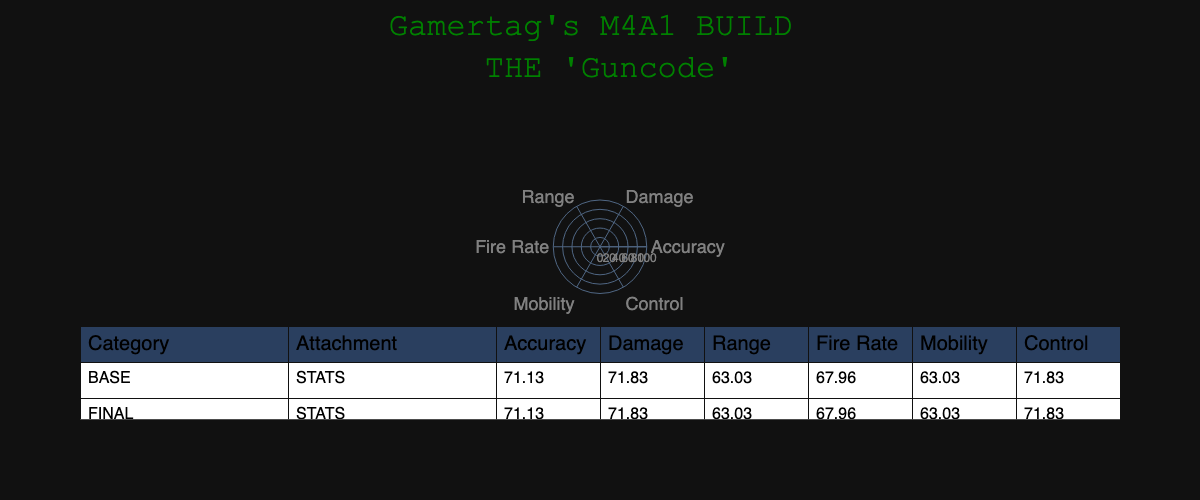
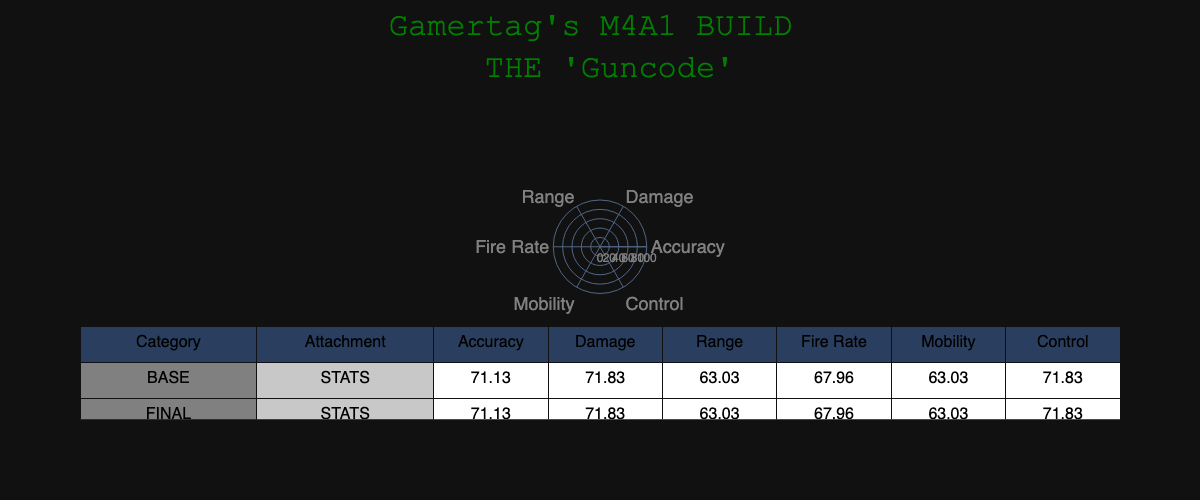
updated table layout

diff --git a/graph2.py b/graph2.py
@@ -64,13 +64,13 @@ def make_graph(original = m4base, updated = upgrade, gun = "M4A1", gamertag = "G
 
     fig.add_trace(
         go.Table(        
-            columnwidth = [0.2, 0.2, 0.1, 0.1, 0.1, 0.1, 0.1, 0.1],
+            columnwidth = [0.17, 0.17, 0.11, 0.11, 0.11, 0.11, 0.11, 0.11],
             header = dict(
                 values = ["Category","Attachment",'Accuracy','Damage','Range','Fire Rate','Mobility','Control'],
-                font = dict(size = 20,
-                color = "black"),
+                font = dict(size = 16,
+                            color = "black"),
                 height = 36,
-                align="left"
+                align="center",
             ),
             cells = dict(
                 values = [
@@ -85,8 +85,8 @@ def make_graph(original = m4base, updated = upgrade, gun = "M4A1", gamertag = "G
                 ],
                 
                 fill_color=[
-                    ['white']*len(values),
-                    ['white']*len(values),
+                    ["rgb(200, 200, 200)"]*len(values),
+                    ["rgb(200, 200, 200)"]*len(values),
                     values.Accuracy_color,
                     values.Damage_color,
                     values.Range_color,
@@ -95,7 +95,7 @@ def make_graph(original = m4base, updated = upgrade, gun = "M4A1", gamertag = "G
                     values.Control_color,
                 ],
                 height = 36,
-                align = "left",
+                align = "center",
                 font = dict(size = 16,
                 color = "black"),
             )
